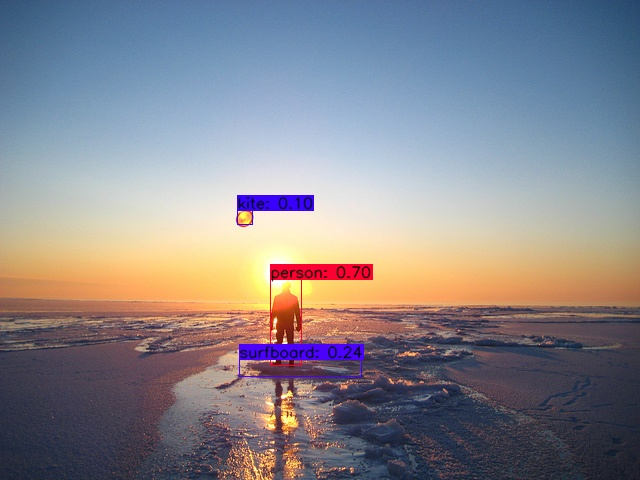
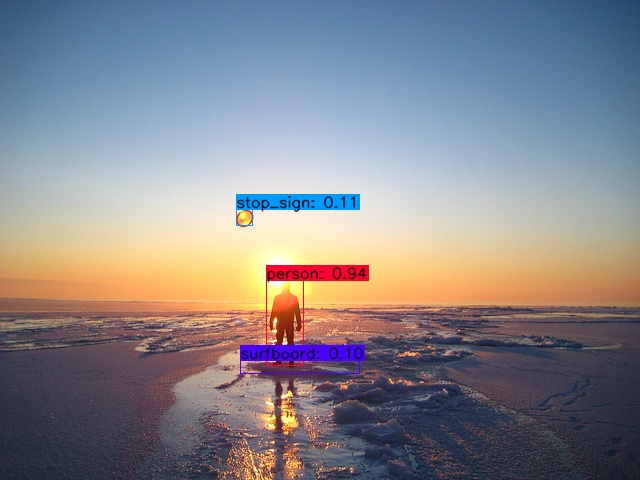
log

Changed region(s): [[0.3438, 0.5312, 0.5938, 0.8125], [0.3438, 0.375, 0.5625, 0.4688]]

diff --git a/tools/cocotools.py b/tools/cocotools.py
@@ -79,45 +79,66 @@ def bbox_eval(anno_file):
     sys.stdout.flush()
     return map_stats
 
-def eval(_decode, images, eval_pre_path, anno_file):
+def eval(_decode, images, eval_pre_path, anno_file, eval_batch_size, draw_image):
     # 8G内存的电脑并不能装下所有结果，所以把结果写进文件里。
     if os.path.exists('eval_results/bbox/'): shutil.rmtree('eval_results/bbox/')
+    if os.path.exists('eval_results/images/'): shutil.rmtree('eval_results/images/')
     if not os.path.exists('eval_results/'): os.mkdir('eval_results/')
     os.mkdir('eval_results/bbox/')
+    os.mkdir('eval_results/images/')
 
     count = 0
-    for im in images:
+    n = len(images)
+    batch_im_id = []
+    batch_img = []
+    for i, im in enumerate(images):
         im_id = im['id']
         file_name = im['file_name']
         image = cv2.imread(eval_pre_path + file_name)
-        image, boxes, scores, classes = _decode.detect_image(image, draw_image=False)
-        if boxes is not None:
-            n = len(boxes)
-            bbox_data = []
-            for p in range(n):
-                clsid = classes[p]
-                score = scores[p]
-                xmin, ymin, xmax, ymax = boxes[p]
-                catid = (clsid2catid[int(clsid)])
-                w = xmax - xmin + 1
-                h = ymax - ymin + 1
+        if i % eval_batch_size == 0:
+            batch_im_id = []
+            batch_img = []
+        batch_im_id.append(im_id)
+        batch_img.append(image)
 
-                bbox = [xmin, ymin, w, h]
-                # Round to the nearest 10th to avoid huge file sizes, as COCO suggests
-                bbox = [round(float(x) * 10) / 10 for x in bbox]
-                bbox_res = {
-                    'image_id': im_id,
-                    'category_id': catid,
-                    'bbox': bbox,
-                    'score': float(score)
-                }
-                bbox_data.append(bbox_res)
-            path = 'eval_results/bbox/%.12d.json' % im_id
-            with open(path, 'w') as f:
-                json.dump(bbox_data, f)
-        count += 1
-        if count % 100 == 0:
-            logger.info('Test iter {}'.format(count))
+        # 收集够一个batch的图片
+        if i != n - 1 and len(batch_img) != eval_batch_size:
+            continue
+
+        result_image, result_boxes, result_scores, result_classes = _decode.detect_batch(batch_img, draw_image=draw_image)
+        k = 0
+        for image, boxes, scores, classes in zip(result_image, result_boxes, result_scores, result_classes):
+            if boxes is not None:
+                im_id = batch_im_id[k]
+                n = len(boxes)
+                bbox_data = []
+                for p in range(n):
+                    clsid = classes[p]
+                    score = scores[p]
+                    xmin, ymin, xmax, ymax = boxes[p]
+                    catid = (clsid2catid[int(clsid)])
+                    w = xmax - xmin + 1
+                    h = ymax - ymin + 1
+
+                    bbox = [xmin, ymin, w, h]
+                    # Round to the nearest 10th to avoid huge file sizes, as COCO suggests
+                    bbox = [round(float(x) * 10) / 10 for x in bbox]
+                    bbox_res = {
+                        'image_id': im_id,
+                        'category_id': catid,
+                        'bbox': bbox,
+                        'score': float(score)
+                    }
+                    bbox_data.append(bbox_res)
+                path = 'eval_results/bbox/%.12d.json' % im_id
+                if draw_image:
+                    cv2.imwrite('eval_results/images/%.12d.jpg' % im_id, image)
+                with open(path, 'w') as f:
+                    json.dump(bbox_data, f)
+            count += 1
+            k += 1
+            if count % 100 == 0:
+                logger.info('Test iter {}'.format(count))
     # 开始评测
     box_ap_stats = bbox_eval(anno_file)
     return box_ap_stats

diff --git a/demo.py b/demo.py
@@ -7,14 +7,23 @@
 #   Description : keras_yolov4
 #
 # ================================================================
+from collections import deque
+import datetime
 import cv2
 import os
 import time
+import numpy as np
 import tensorflow as tf
 import keras.layers as layers
 from tools.cocotools import get_classes
 from model.yolov4 import YOLOv4
 from model.decode_np import Decode
+
+import logging
+FORMAT = '%(asctime)s-%(levelname)s: %(message)s'
+logging.basicConfig(level=logging.INFO, format=FORMAT)
+logger = logging.getLogger(__name__)
+
 
 
 # 6G的卡，训练时如果要预测，则设置use_gpu = False，否则显存不足。
@@ -36,12 +45,16 @@ if __name__ == '__main__':
     classes_path = 'data/coco_classes.txt'
     # model_path可以是'yolov4.h5'、'./weights/step00001000.h5'这些。
     # model_path = 'yolov4.h5'
-    model_path = './weights/step00001000.h5'
+    model_path = './weights/step00040000.h5'
 
     # input_shape越大，精度会上升，但速度会下降。
     # input_shape = (320, 320)
     input_shape = (416, 416)
     # input_shape = (608, 608)
+
+    # 是否给图片画框。不画可以提速。读图片、后处理还可以继续优化。
+    draw_image = True
+    # draw_image = False
 
 
     num_anchors = 3
@@ -53,14 +66,32 @@ if __name__ == '__main__':
 
     _decode = Decode(0.05, 0.45, input_shape, yolo, all_classes)
 
-    # detect images in test floder.
-    for (root, dirs, files) in os.walk('images/test'):
-        if files:
-            start = time.time()
-            for f in files:
-                path = os.path.join(root, f)
-                image = cv2.imread(path)
-                image, boxes, scores, classes = _decode.detect_image(image, draw_image = True)
-                cv2.imwrite('images/res/' + f, image)
-            print('total time: {0:.6f}s'.format(time.time() - start))
+
+    time_stat = deque(maxlen=20)
+    start_time = time.time()
+    end_time = time.time()
+
+    path_dir = os.listdir('images/test')
+    num_imgs = len(path_dir)
+    start = time.time()
+    for k, filename in enumerate(path_dir):
+        image = cv2.imread('images/test/' + filename)
+        image, boxes, scores, classes = _decode.detect_image(image, draw_image)
+
+        # 估计剩余时间
+        start_time = end_time
+        end_time = time.time()
+        time_stat.append(end_time - start_time)
+        time_cost = np.mean(time_stat)
+        eta_sec = (num_imgs - k) * time_cost
+        eta = str(datetime.timedelta(seconds=int(eta_sec)))
+
+        logger.info('Infer iter {}, num_imgs={}, eta={}.'.format(k, num_imgs, eta))
+        if draw_image:
+            cv2.imwrite('images/res/' + filename, image)
+            logger.info("Detection bbox results save in images/res/{}".format(filename))
+    cost = time.time() - start
+    logger.info('total time: {0:.6f}s'.format(cost))
+    logger.info('Speed: {0:.6f}s per image'.format(cost / num_imgs))
+
 

diff --git a/model/decode_np.py b/model/decode_np.py
@@ -2,7 +2,7 @@
 import random
 import colorsys
 import cv2
-import time
+import threading
 import os
 import numpy as np
 
@@ -24,6 +24,43 @@ class Decode(object):
         if boxes is not None and draw_image:
             self.draw(image, boxes, scores, classes)
         return image, boxes, scores, classes
+
+    # 多线程后处理
+    def multi_thread_post(self, batch_img, outs, i, draw_image, result_image, result_boxes, result_scores, result_classes):
+        a1 = np.reshape(outs[0][i], (1, self.input_shape[0] // 32, self.input_shape[1] // 32, 3, 5 + self.num_classes))
+        a2 = np.reshape(outs[1][i], (1, self.input_shape[0] // 16, self.input_shape[1] // 16, 3, 5 + self.num_classes))
+        a3 = np.reshape(outs[2][i], (1, self.input_shape[0] // 8, self.input_shape[1] // 8, 3, 5 + self.num_classes))
+        boxes, scores, classes = self._yolo_out([a1, a2, a3], batch_img[i].shape)
+        if boxes is not None and draw_image:
+            self.draw(batch_img[i], boxes, scores, classes)
+        result_image[i] = batch_img[i]
+        result_boxes[i] = boxes
+        result_scores[i] = scores
+        result_classes[i] = classes
+
+    # 处理一批图片
+    def detect_batch(self, batch_img, draw_image):
+        batch_size = len(batch_img)
+        result_image, result_boxes, result_scores, result_classes = [None] * batch_size, [None] * batch_size, [None] * batch_size, [None] * batch_size
+        batch = []
+
+        for image in batch_img:
+            pimage = self.process_image(np.copy(image))
+            batch.append(pimage)
+        batch = np.concatenate(batch, axis=0)
+        outs = self._yolo.predict(batch)
+
+        # 多线程
+        threads = []
+        for i in range(batch_size):
+            t = threading.Thread(target=self.multi_thread_post, args=(
+                batch_img, outs, i, draw_image, result_image, result_boxes, result_scores, result_classes))
+            threads.append(t)
+            t.start()
+        # 等待所有线程任务结束。
+        for t in threads:
+            t.join()
+        return result_image, result_boxes, result_scores, result_classes
 
     # 处理视频
     def detect_video(self, video):

diff --git a/eval.py b/eval.py
@@ -31,6 +31,12 @@ if __name__ == '__main__':
     # input_shape = (416, 416)
     input_shape = (608, 608)
 
+    # 是否画出验证集图片
+    # draw_image = True
+    draw_image = False
+    # 验证时的批大小
+    eval_batch_size = 4
+
     # 验证集图片的相对路径
     eval_pre_path = '../COCO/val2017/'
     anno_file = '../COCO/annotations/instances_val2017.json'
@@ -48,5 +54,5 @@ if __name__ == '__main__':
     yolo.load_weights(model_path, by_name=True)
 
     _decode = Decode(0.05, 0.45, input_shape, yolo, all_classes)
-    box_ap = eval(_decode, images, eval_pre_path, anno_file)
+    box_ap = eval(_decode, images, eval_pre_path, anno_file, eval_batch_size, draw_image)
 

diff --git a/train.py b/train.py
@@ -452,6 +452,10 @@ if __name__ == '__main__':
     # 验证时的分数阈值和nms_iou阈值
     conf_thresh = 0.05
     nms_thresh = 0.45
+    # 是否画出验证集图片
+    draw_image = False
+    # 验证时的批大小
+    eval_batch_size = 4
 
 
     # 多尺度训练
@@ -564,7 +568,7 @@ if __name__ == '__main__':
 
             # eval
             if iter_id % eval_iter == 0:
-                box_ap = eval(_decode, images, eval_pre_path, anno_file)
+                box_ap = eval(_decode, images, eval_pre_path, anno_file, eval_batch_size, draw_image)
                 logger.info("box ap: %.3f" % (box_ap[0], ))
 
                 # 以box_ap作为标准
